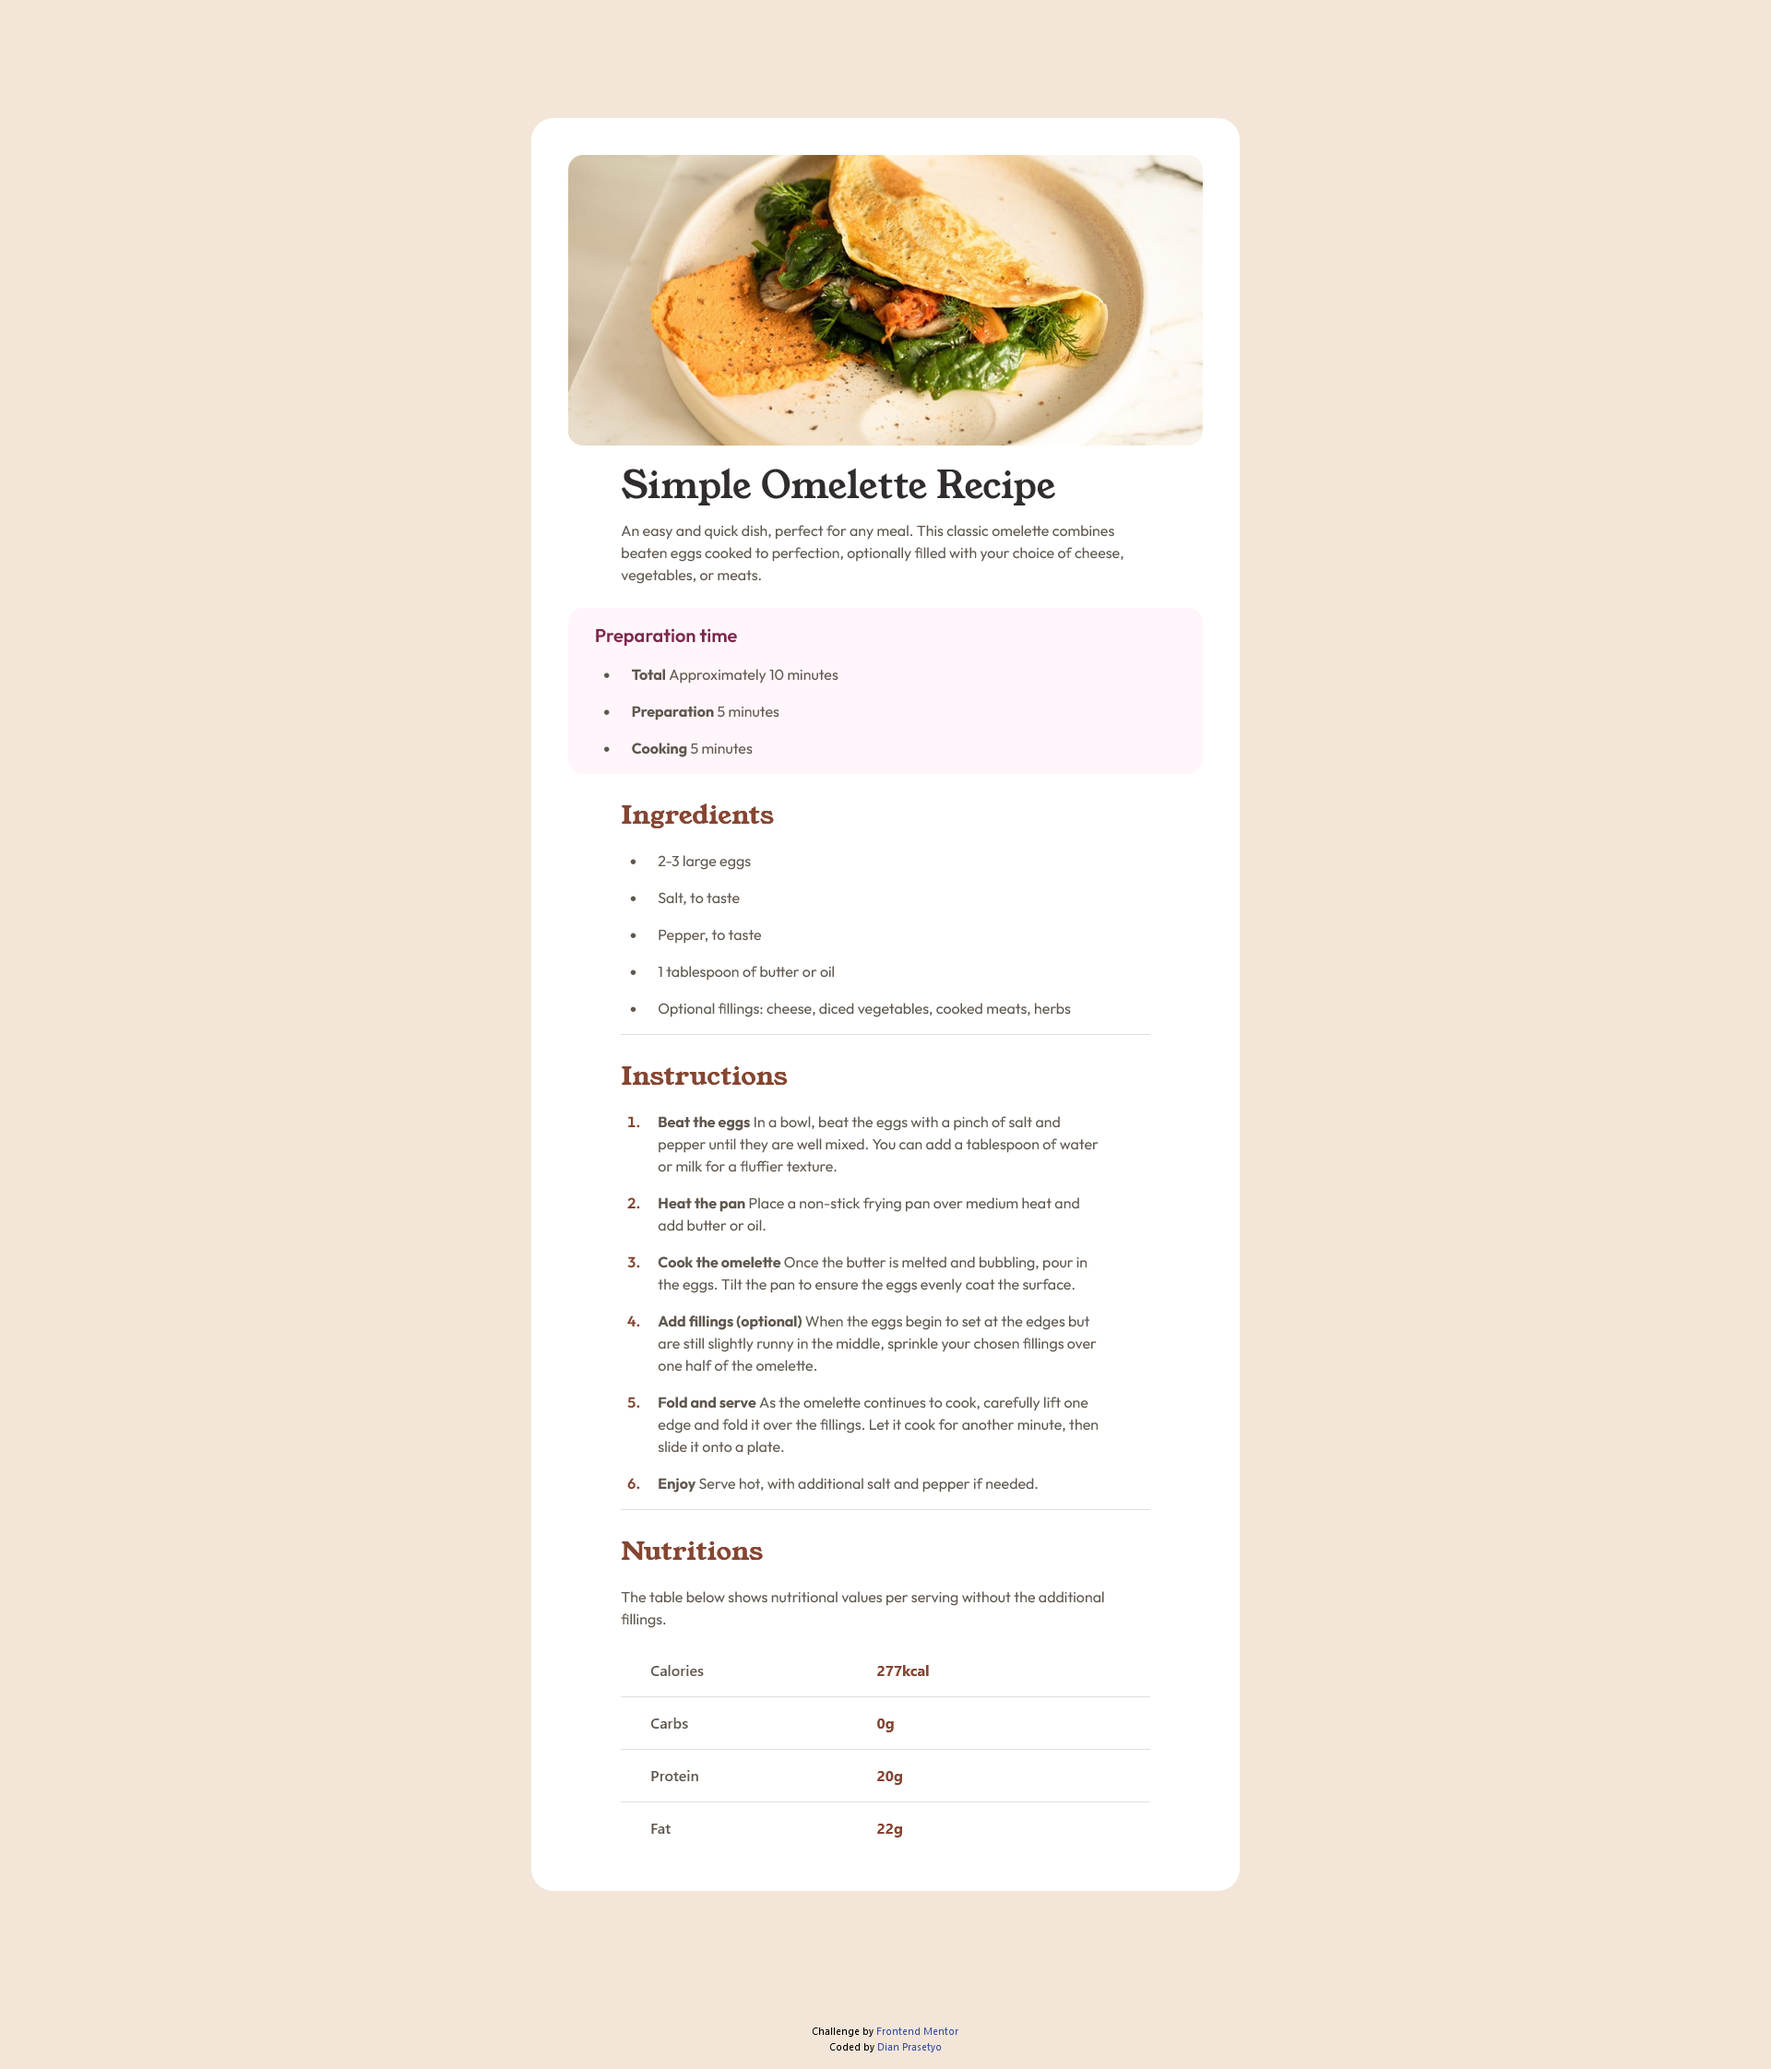
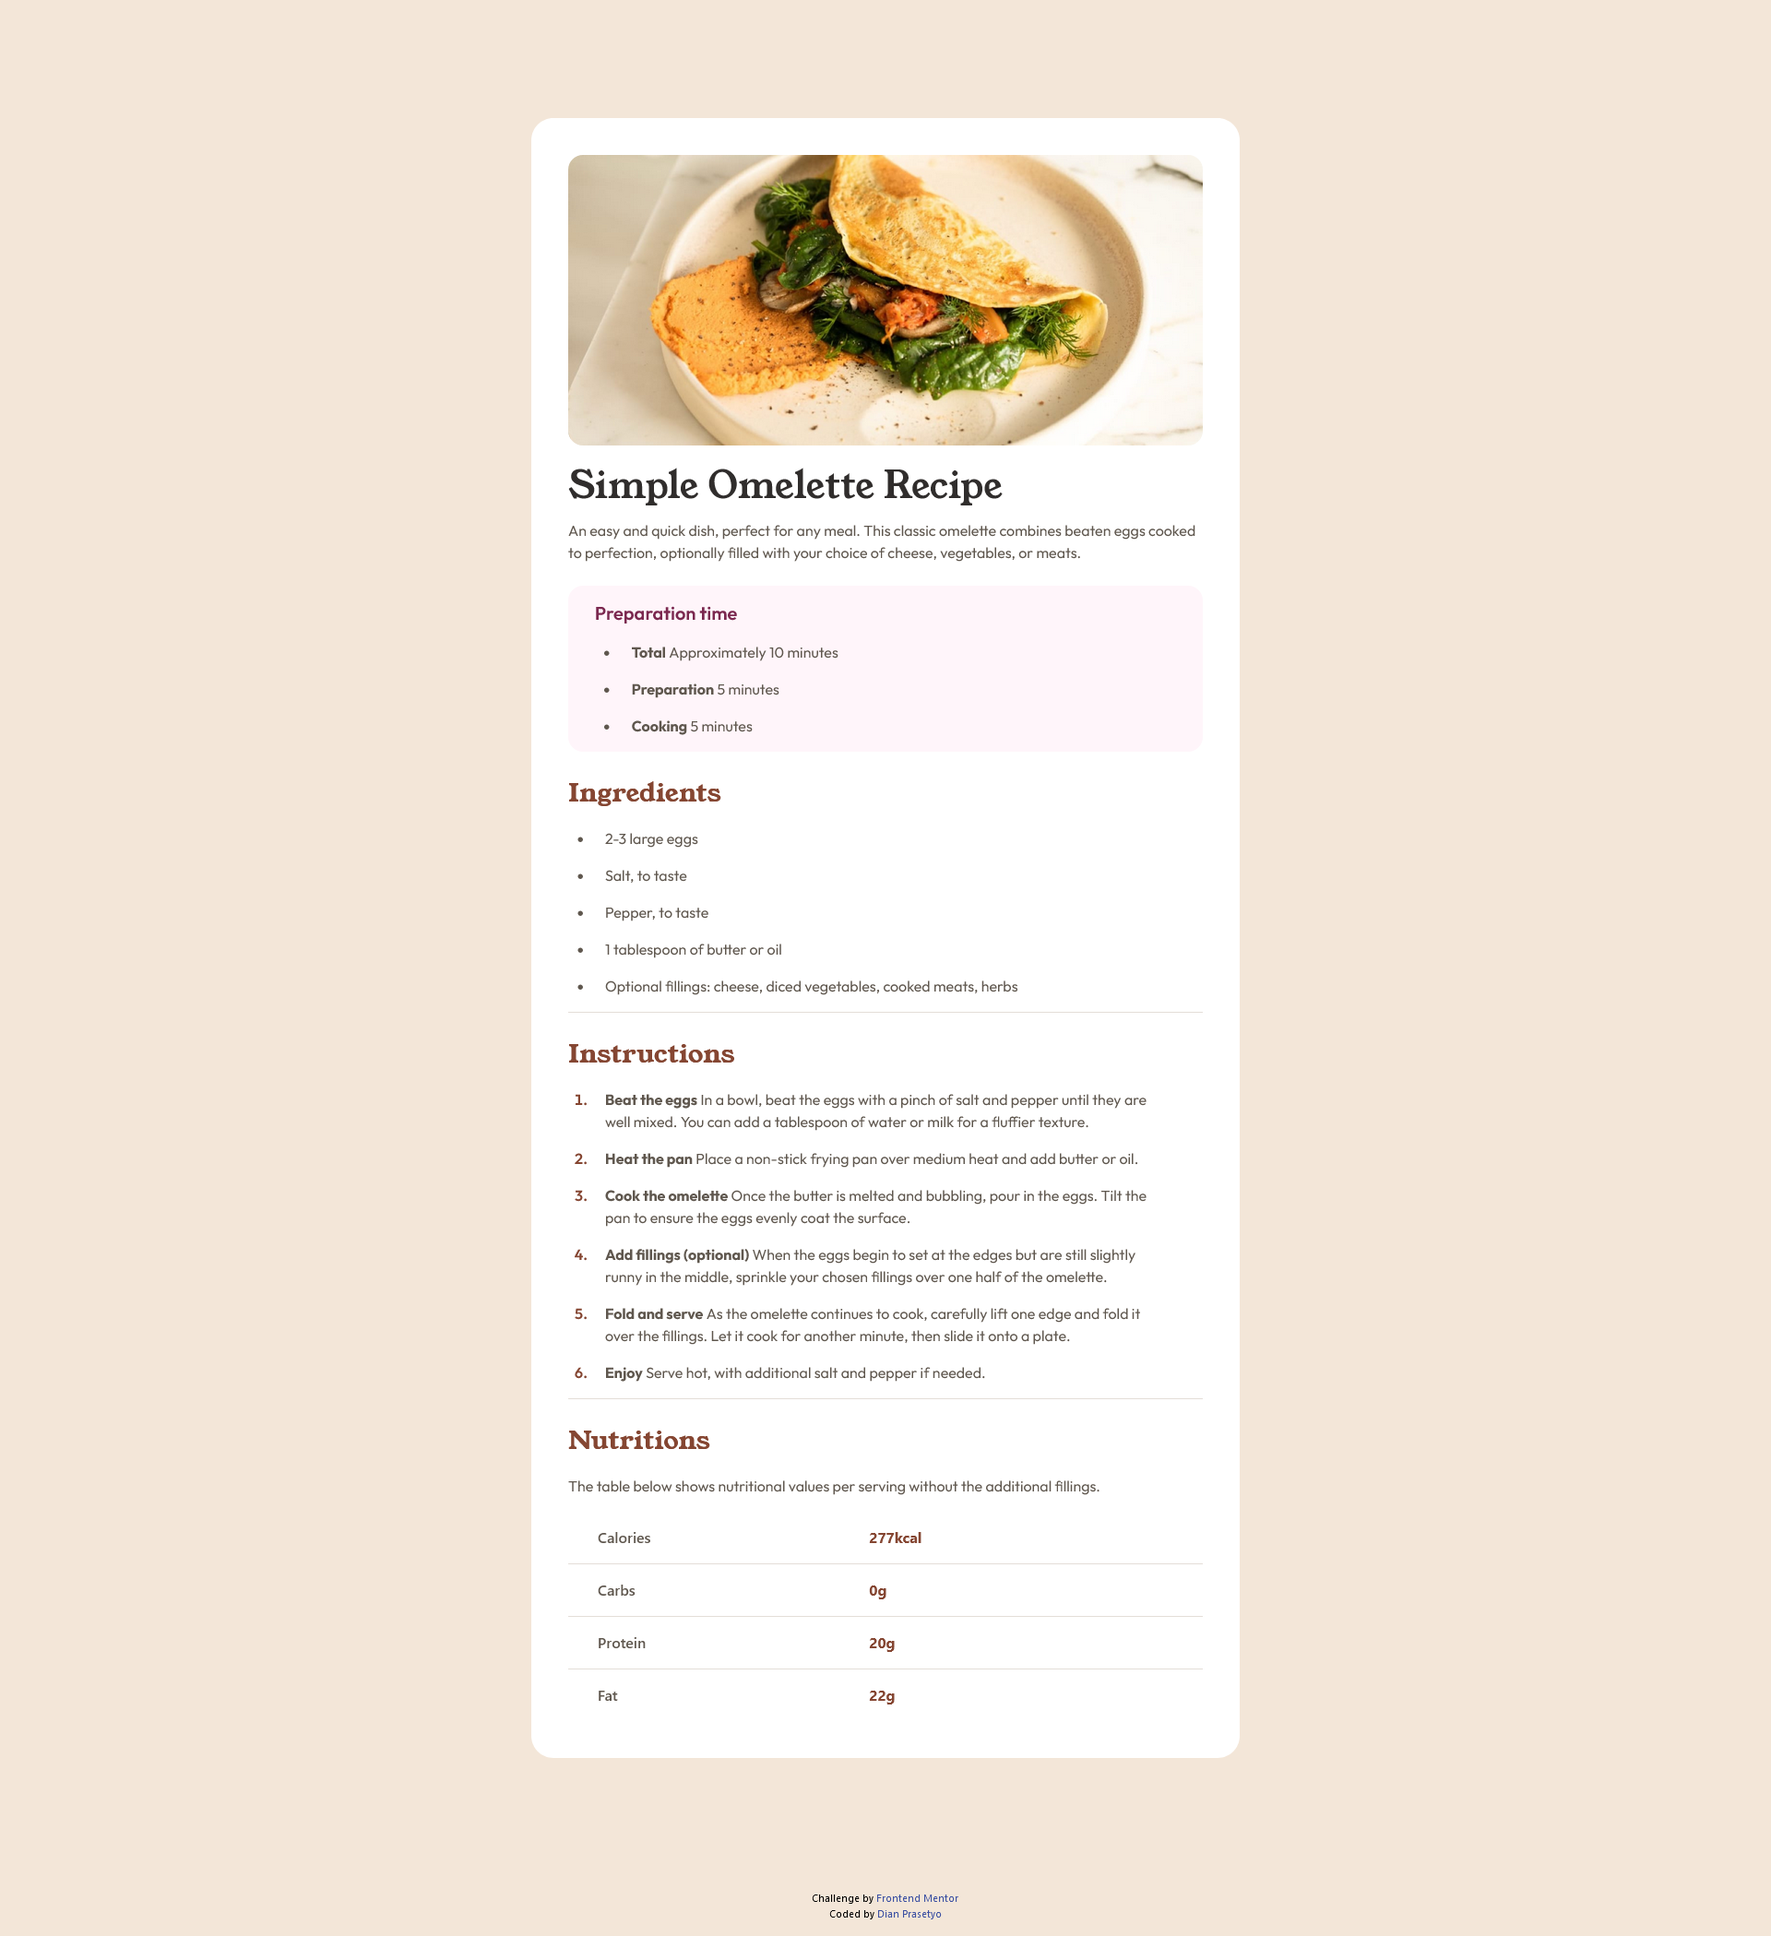
fix: item width not 100% on web

diff --git a/src/App.tsx b/src/App.tsx
@@ -14,7 +14,7 @@ function App() {
             alt="hero image omelette"
             className="md:rounded-2xl"
           />
-          <div className="flex flex-col w-10/12 gap-4 mx-auto">
+          <div className="flex flex-col w-10/12 gap-4 mx-auto md:w-full">
             <h1 className="text-4xl md:text-[40px] font-young-serif text-custom-dark-charcoal">
               Simple Omelette Recipe
             </h1>
@@ -37,7 +37,7 @@ function App() {
               })}
             </ul>
           </div>
-          <div className="flex flex-col w-10/12 gap-4 mx-auto">
+          <div className="flex flex-col w-10/12 gap-4 mx-auto md:w-full">
             <h2 className="text-[28px] font-semibold text-custom-nutmeg font-young-serif">
               Ingredients
             </h2>
@@ -48,7 +48,7 @@ function App() {
             </ul>
             <div className="border-b border-custom-light-grey"></div>
           </div>
-          <div className="flex flex-col w-10/12 gap-4 mx-auto">
+          <div className="flex flex-col w-10/12 gap-4 mx-auto md:w-full">
             <h2 className="text-[28px] font-semibold text-custom-nutmeg font-young-serif">
               Instructions
             </h2>
@@ -67,7 +67,7 @@ function App() {
             </ol>
             <div className="border-b border-custom-light-grey"></div>
           </div>
-          <div className="flex flex-col w-10/12 gap-4 mx-auto">
+          <div className="flex flex-col w-10/12 gap-4 mx-auto md:w-full">
             <h2 className="text-[28px] font-semibold text-custom-nutmeg font-young-serif">
               Nutritions
             </h2>
